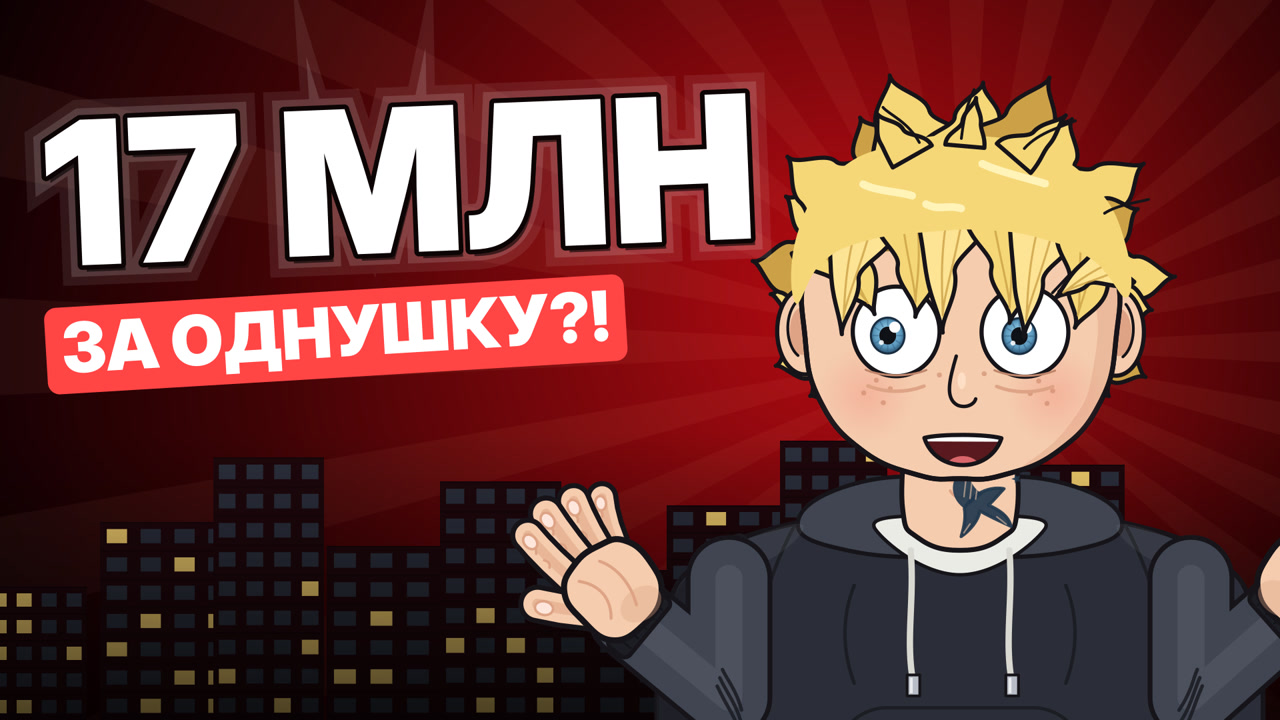
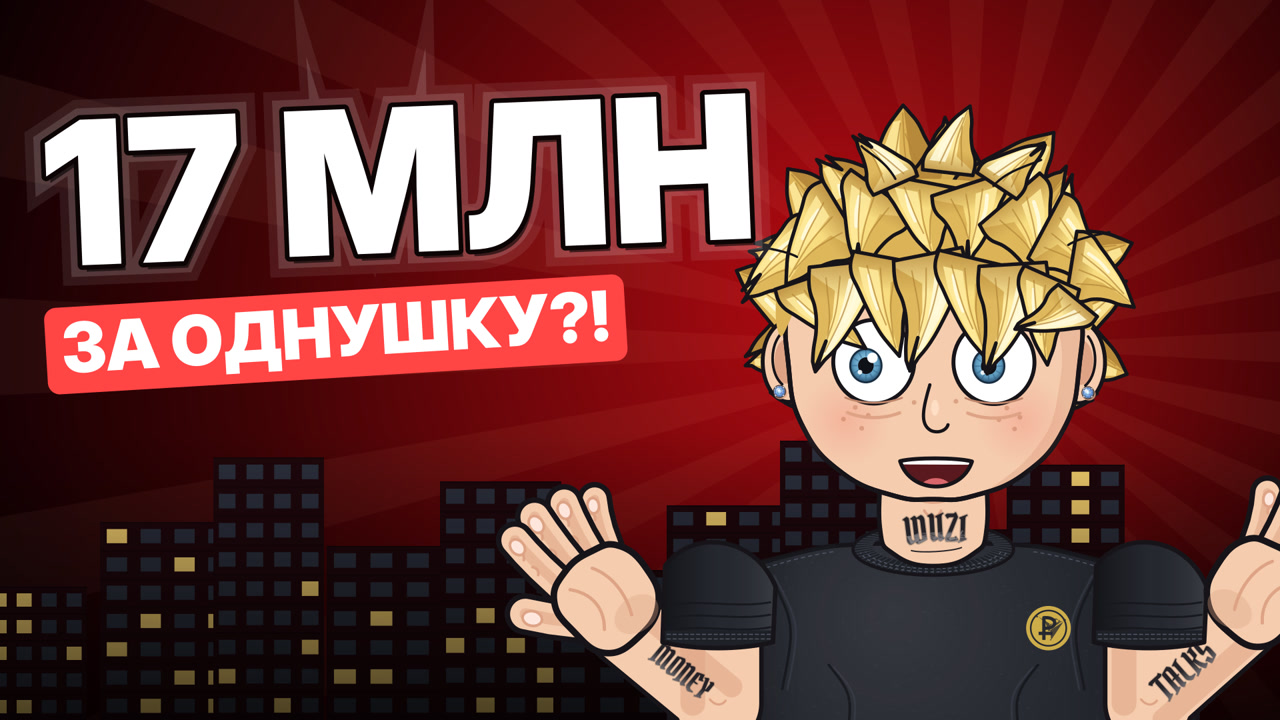
Kvartira: thumbnails rebuilt with the approved narrator
Claude-Session: https://claude.ai/code/session_01Etcvs7yDvc4b4CGVjdTrvf

Changed region(s): [[0.375, 0.0917, 1.0, 1.0]]

diff --git a/videos/kvartira/thumb18.py b/videos/kvartira/thumb18.py
@@ -97,7 +97,7 @@ def variant_a():
     s = cairo.ImageSurface(cairo.FORMAT_ARGB32, W, H)
     c = cairo.Context(s)
     base(c)
-    character.draw(c, 1440, 1180, 1.05, {"pose": "shrug", "emo": "wow", "t": 0.4, "level": 0.9, "look": -0.5})
+    character.draw(c, 1400, 1180, 0.98, {"pose": "shrug", "emo": "wow", "t": 0.4, "level": 0.9, "look": -0.5})
     outlined(c, "17 МЛН", 70, 400, 300, WHITE, glow=0.8, rot=-0.04)
     sticker(c, "ЗА ОДНУШКУ?!", 95, 560, 104, RED, WHITE)
     save(s, "thumb_A")
@@ -108,7 +108,7 @@ def variant_b():
     s = cairo.ImageSurface(cairo.FORMAT_ARGB32, W, H)
     c = cairo.Context(s)
     base(c, (0.55, 0.05, 0.06))
-    character.draw(c, 1440, 1150, 0.9, {"pose": "point", "emo": "angry", "t": 0.7, "level": 0.8, "look": -0.8})
+    character.draw(c, 1400, 1150, 0.9, {"pose": "point", "emo": "angry", "t": 0.7, "level": 0.8, "look": -0.8})
     w = outlined(c, "5,4 МЛН", 90, 270, 170, (0.85, 0.85, 0.85), stroke=10, rot=-0.03)
     c.save()
     c.translate(90, 270)
@@ -129,7 +129,7 @@ def variant_c():
     s = cairo.ImageSurface(cairo.FORMAT_ARGB32, W, H)
     c = cairo.Context(s)
     base(c, (0.5, 0.03, 0.06))
-    cx, cy, r = 430, 470, 300
+    cx, cy, r = 430, 520, 280
     c.arc(cx, cy, r + 14, 0, 2 * math.pi)
     rgba(c, (0.05, 0.02, 0.02))
     c.fill()
@@ -146,7 +146,7 @@ def variant_c():
     outlined(c, "93%", cx, cy + 75, 210, WHITE, align="center")
     sticker(c, "ЗАРПЛАТЫ — БАНКУ", 120, 940, 84, GOLD, rot=-0.03)
     character.draw(c, 1460, 1150, 1.0, {"pose": "facepalm", "emo": "sad", "t": 1.3, "look": -0.6})
-    outlined(c, "20 ЛЕТ", 790, 190, 140, WHITE, glow=0.6, rot=0.05)
+    outlined(c, "20 ЛЕТ", 110, 200, 150, WHITE, glow=0.6, rot=-0.03)
     save(s, "thumb_C")
 
 
